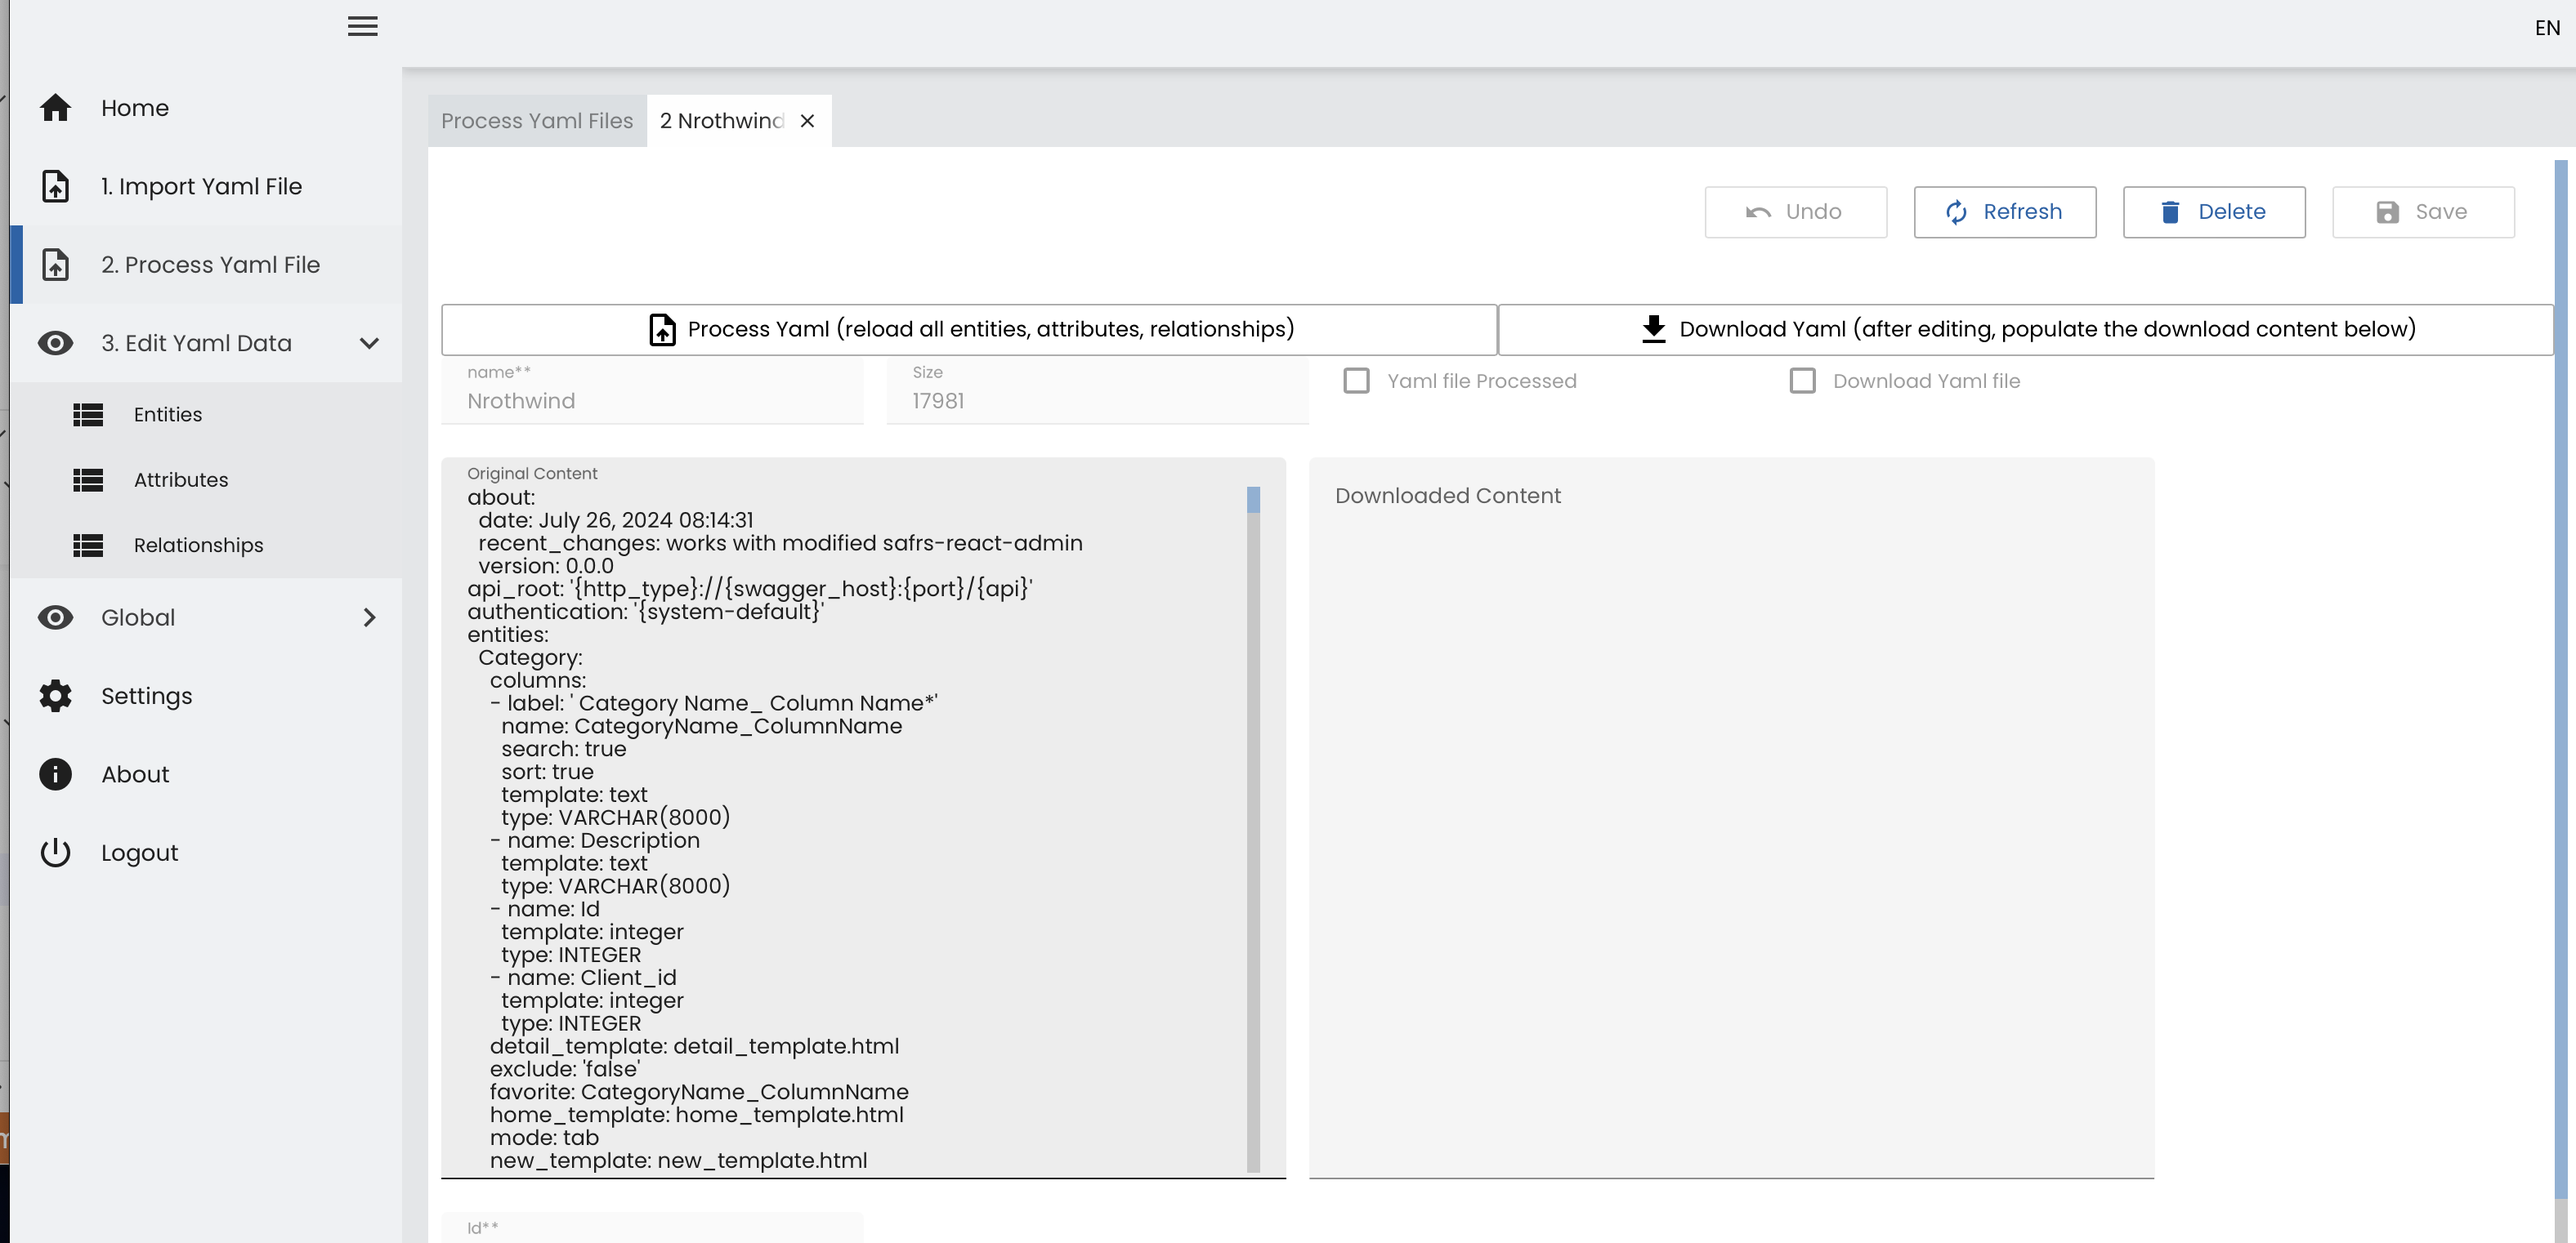
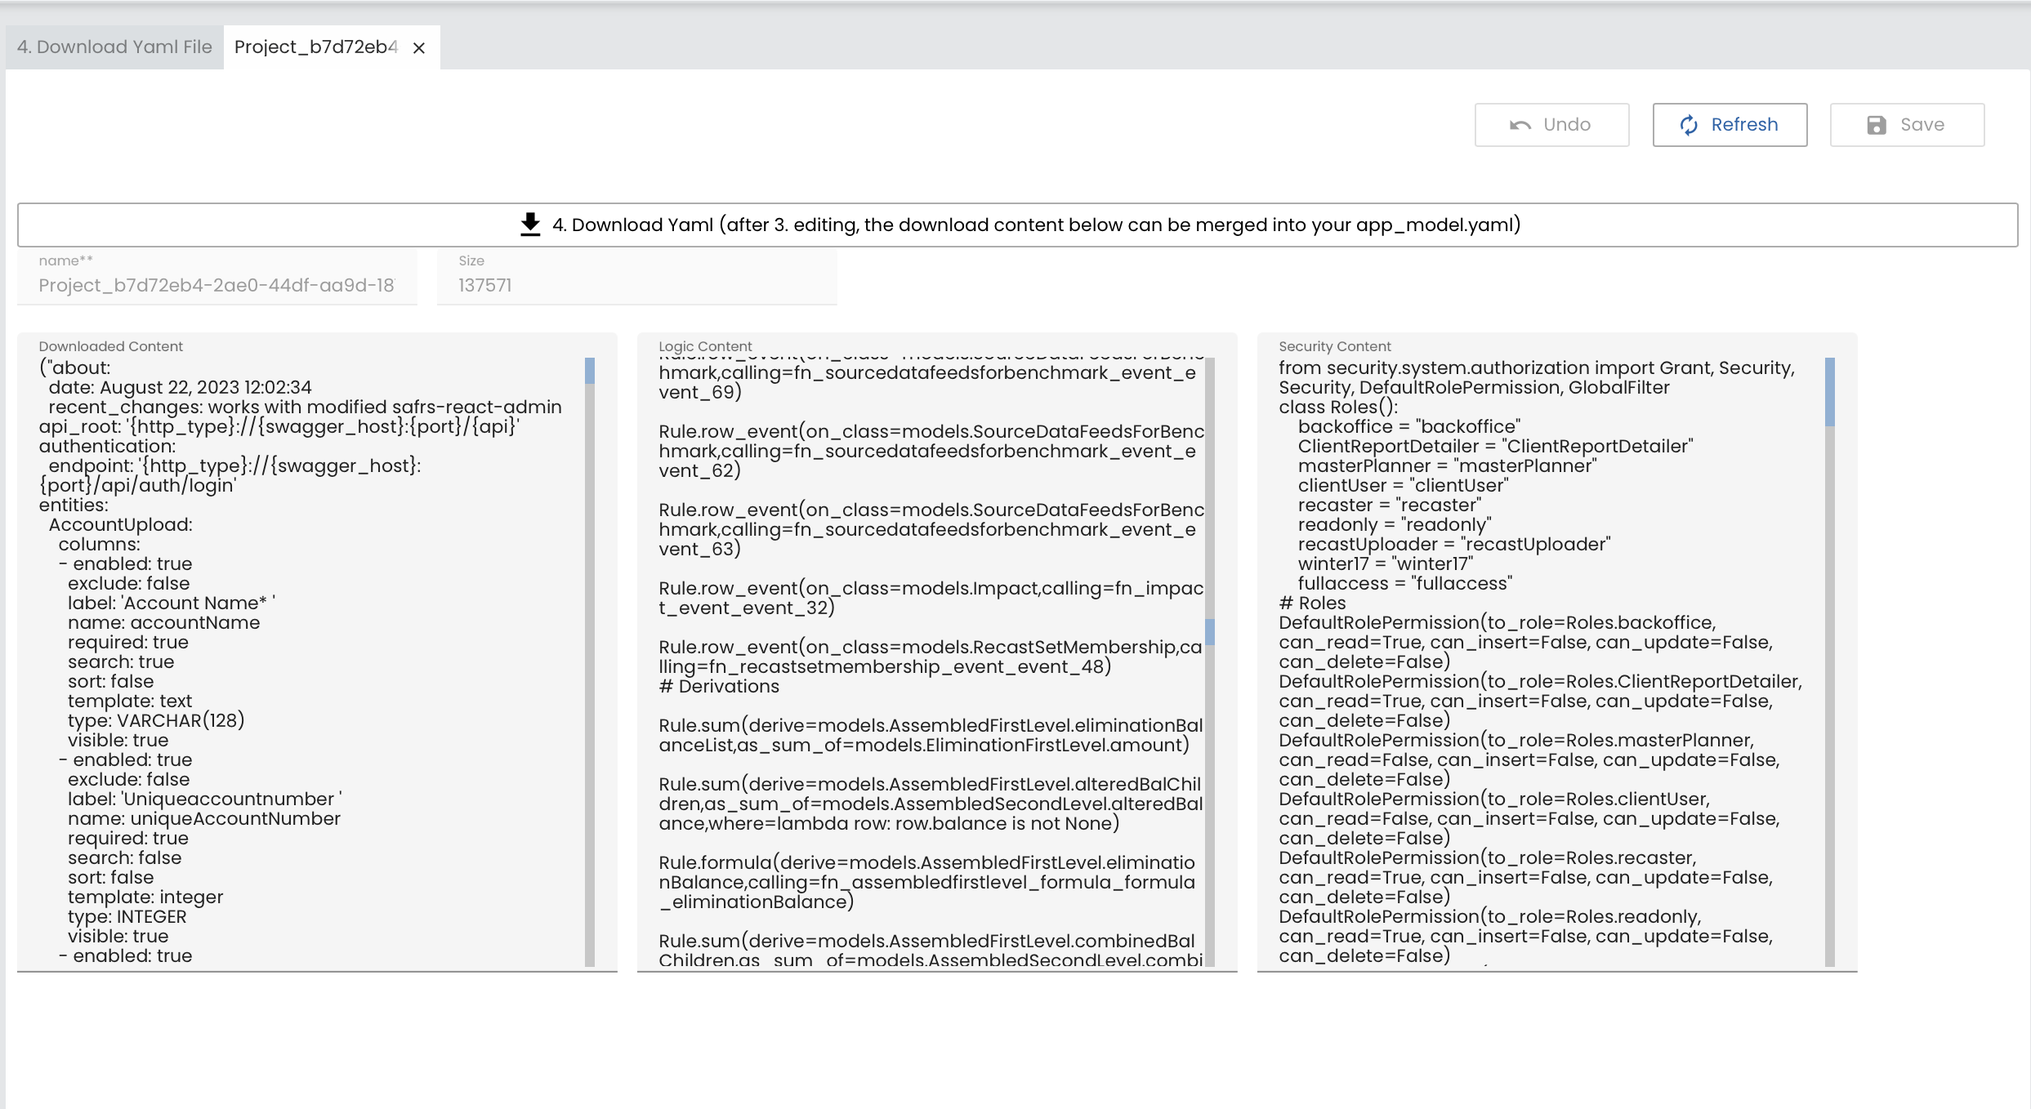
update readme

diff --git a/ui/yaml/src/app/main/YamlFiles/detail/YamlFiles-detail.component.ts b/ui/yaml/src/app/main/YamlFiles/detail/YamlFiles-detail.component.ts
@@ -1,5 +1,5 @@
 import { Injector, ViewChild, Component, OnInit, ViewEncapsulation } from '@angular/core';
-import { OFormComponent, OntimizeService, OListPickerComponent, OTableComponent, ORealPipe, ONIFInputComponent } from 'ontimize-web-ngx';
+import { OFormComponent, OntimizeService, SnackBarService, OSnackBarConfig } from 'ontimize-web-ngx';
 import { DialogService } from 'ontimize-web-ngx';
 
 @Component({
@@ -13,13 +13,15 @@ export class YamlFilesDetailComponent implements OnInit  {
   public content: string;
   public rule_content: string;
   public downloaded: string;
+  public snackBarService: SnackBarService;
+  public snackBarConfig: OSnackBarConfig;
 
   @ViewChild('oDetailForm') form: OFormComponent;
   
   constructor(protected injector: Injector,
     protected dialogService: DialogService)  {
     this.service = this.injector.get(OntimizeService);
-  
+    this.snackBarService = this.injector.get(SnackBarService);
   }
 
   ngOnInit() {
@@ -61,6 +63,13 @@ export class YamlFilesDetailComponent implements OnInit  {
   }
   process_yaml() {
     console.log("process_yaml");
+    const configuration: OSnackBarConfig = {
+      action: 'Ok',
+      milliseconds: 7000,
+      icon: 'check_circle',
+      iconPosition: 'left'
+    }
+    this.snackBarService.open("Please wait, Processing files..", configuration);
     this.service.query({ 'name': this.data.name }, [],"importyaml").subscribe((resp) => {
         console.log("res: " + JSON.stringify(resp));
         if (resp.code === 0) {
@@ -79,6 +88,7 @@ export class YamlFilesDetailComponent implements OnInit  {
       });
     }
     showInfo() {
+        //if (this.snackBarService) {this.snackBarService.dismiss();}
         if (this.dialogService) {
         this.dialogService.info('Yaml Processing Complete',
             'Entities, Attributes, Relationships and Rules have been created from the Yaml "original content"',);

diff --git a/ui/yaml/src/app/main/YamlFiles/new/YamlFiles-new.component.ts b/ui/yaml/src/app/main/YamlFiles/new/YamlFiles-new.component.ts
@@ -1,18 +1,18 @@
 import { Component, Injector, ViewChild } from '@angular/core';
-import { NavigationService, OFormComponent } from 'ontimize-web-ngx';
-
+import { NavigationService, OFormComponent, SnackBarService } from 'ontimize-web-ngx';
+//import {MAT_SNACK_BAR_DATA} from '@angular/material/snack-bar';
 @Component({
   selector: 'YamlFiles-new',
   templateUrl: './YamlFiles-new.component.html',
   styleUrls: ['./YamlFiles-new.component.scss']
 })
+
 export class YamlFilesNewComponent {
   @ViewChild('YamlFilesForm') form: OFormComponent;
-
+  protected snackBarService: SnackBarService
   constructor(protected injector: Injector) {
     this.injector.get(NavigationService).initialize();
   }
-
   onInsertMode() {
     const default_values = { "name": "app_model.yaml" };
     this.form.setFieldValues(default_values);
@@ -66,6 +66,7 @@ export class YamlFilesNewComponent {
             if (field3) {
               field3.visible = false;
             }
+            this.snackBarService.open('Uploading files...');
         } else {
           alert("Please select a root ApiLogicServer project folder");
         }

diff --git a/readme.md b/readme.md
@@ -39,6 +39,10 @@ http://localhost:5655 (user: admin password: p)
 # Run as Docker container
 
 ```
+# Build Image
+ sh devops/docker-image/build_image.sh .
+
+# Run Docker
 docker compose -f devops/docker-compose-dev-local/docker-compose-yaml.yml up -d
 
 in a browser
@@ -50,9 +54,9 @@ After you install and start the ApiLogicServer (f5) and (cd ui/yaml) npm install
 http://localhost:4298 (user: admin password: p)
 ```
 ## 1. Import Yaml File 
-The Import will allow you to select an Ontimize/ApiLogicServer app_model.yaml file to upload.  You can import different projects into the editor, but only 1 file can be processed for editing Entities, Attributes, and Relationships. Simply enter the id number, a name, and the app_model.yaml file.
+The Import will allow you to select an Ontimize/ApiLogicServer app_model.yaml file to upload.  You can import different projects into the editor, but only 1 project can be processed for editing Entities, Attributes, and Relationships. If you select the project root folder - the files for app, security, and logic will be parsed.
 
-![](ui/templates/NewYaml.png)
+![](ui/templates/UploadYaml.png)
 
 ## 2. Process Yaml File 
 Go to the "2. Process Yaml Files" then select the app_model.yaml files you wish to process.
@@ -64,13 +68,12 @@ Use the Home page and select the row and click [2. Process Yaml] - this will loa
 
 
 ## 3. Edit Yaml Data
-Once your yaml file has been imported and processed you can now edit Entities, Attributes, and Relationships. This is the same as manually editing the yaml file directly. See the valid field values below for each object.
+Once your yaml file has been imported and processed you can now edit Entities, Attributes, Relationships, Rules, and Security. This is the same as manually editing the yaml file directly. See the valid field values below for each object. When you have finished editing - step 4 - will create files that can be manually merged back into your existing project.
 
 ## 4. Download Yaml File
-Once you have completed your edits - select Process Yaml Files - select the imported row from the list and click the button 'Download Yaml' it will write to disk and display in the 'downloaded content' window
-reflecting all the new edits to your yaml.  Copy this to your app_model.yaml in your project. (you may need to press refresh)
+Once you have completed your edits - select Process Yaml Files - select the imported row from the list and click the button 'Download Yaml' it will write to disk and display in the 'downloaded content' window reflecting all the new edits to your yaml.  Copy this to your app_model.yaml in your project. (you may need to press refresh a couple of times).  The security and logic are also exported which can be manually edited back into your existing project. 
 
-![](ui/templates/DownloadYaml.png)
+![](ui/templates/ProcessDownload.png)
 
 ### Download using curl file back to disk (ui/app_model_merge.yaml)
 This will write back the modified SQL back to disk as yaml.  Use compare files to merge or replace the merge file for the new ui/app_model_merge.yaml in your application.
@@ -113,7 +116,7 @@ Use the Ontimize editor to change the label, tooltip, exclude selected attribute
 
 ## Relationships (TabGroup)
 Use the Ontimize editor to exclude tab on detail page (tomany) or change the tile used to display.
-![](ui/templates/TabGroup.png)
+![](ui/templates/Relationship.png)
 ### Edit Tab Groups
 |field|Description|
 :------|:---------------|
@@ -136,6 +139,26 @@ These values are injected into the various entity and attribute to provide and s
 
 ## Attribute Templates
 This is a list of defined column templates.  If new templates are created - they can be added here and must be copied to the ui/{ontimize_app_name}/templates directory.
+
+# Logic
+## Derivations
+Logic derivations are applied to attributes (sums, counts, formula, copy) 
+![](ui/templates/Derivation.png)
+## Constraints
+Logic constraints are applied to entities and prevent transactions from completion if one or more constraints fail the logic test (return false).
+![](ui/templates/Constraint.png)
+## Events
+Logic events are applied to state change on entities and usually involve a special function call written in Python (send email, produce Kafka shipping message, push notification, etc).
+![](ui/templates/Event.png)
+
+# Security
+## Roles 
+ApiLogicServer uses role based access control - you may define one or more roles and assign defaults settings for each role.
+![](ui/templates/Roles.png)
+## Grants
+Grants are applied to roles for a specific entity.  The can be used to add CRUD settings to a role or apply row level filters.
+![](ui/templates/Grants.png)
+
 
 # Quick Start
 
